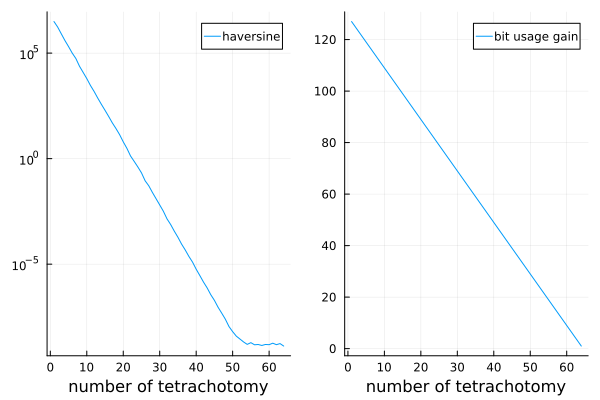
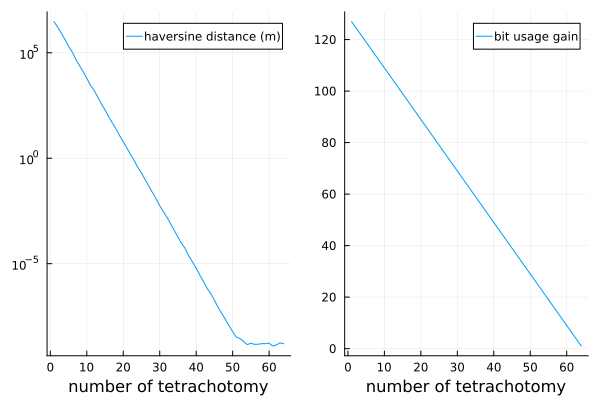
fig update

diff --git a/README.md b/README.md
@@ -18,7 +18,7 @@ Here the tetrachotomy comes from the fact that we do this dichotomy find on both
 
 ## 2. Why ? 
 
-It seems from afar that it could lead to a more compact way of representing geopoints compared to the classical (Float64, Float64) enconding that takes 128 bytes to store one point. This repo aims at answering at least partly to this interrogation. Well, its probably pointless since float64 compression algorithms are very efficient, but it's a fun concept to explore and gives a nice, more human readable bit representation of geographical data. Other methods using fractal representations, other shapes than quadrants can also be used (i guess?), but it's nowhere near as simple.
+It seems from afar that it could lead to a more compact way of representing geopoints compared to the classical (Float64, Float64) enconding that takes 128 bytes to store one point. This repo aims at answering at least partly to this interrogation. Well, its probably pointless since float64 compression algorithms are very efficient, but it's a fun concept to explore and gives a nice, more human readable bit representation of geographical data. Other methods using fractal representations, other shapes than quadrants can also be used (I guess?), but it's nowhere near as simple. Also it is in Julia because I like Julia :) I will maybe do a Python implemntation someday (probably not).
 
 ## 3. How ?
 
@@ -37,7 +37,7 @@ This section describes the data structure that is a '_tetra_' (the writing '_tet
 - ...etc 
 
 In base 4:
-- We replace the first bit by ``-`` (resp. ``+``) if it is in the western (resp. eastern) hemisphere.
+- We replace the first bit by ``-`` (resp. ``+``) if it is in the western (resp. eastern) hemisphere. Ìn other words``0 -> -``, ``1 -> +``. 
 - The pairs of bits are represented in base 4
 
 ->``+213030``
@@ -46,11 +46,7 @@ This can also be interpreted as a list of directions:
 
 -> ``E NW SE NE SW NE SW``
 
+## 4. Is it efficient ? 
 
 ![fig1.png](fig1.png)
 
-why not other methods ?
--> well i'm pretty sure other methods such as using fractals of different shape n-chotometry could lead to more compact representation, but this one seems to be the easiest to implement
-
-why julia
--> well i like it
